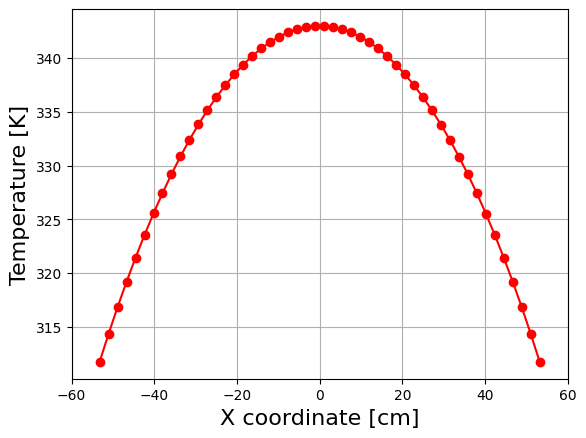
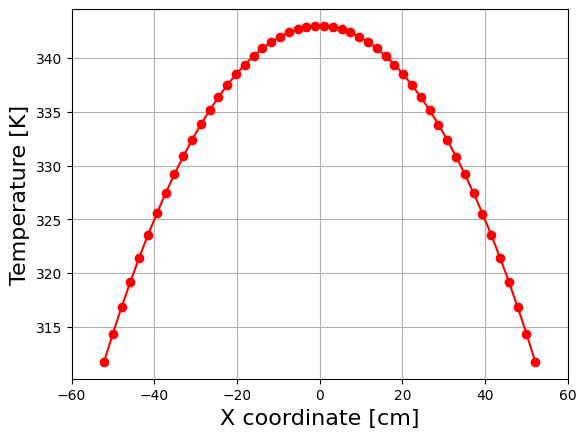
cleaner script, fixed x mesh issue. corresponding results

diff --git a/simulations/visualization/no_ss_no_mesh_template_flux_relaxation_on/viz.py b/simulations/visualization/no_ss_no_mesh_template_flux_relaxation_on/viz.py
@@ -1,0 +1,167 @@
+# a tidier visualization script that takes Cardinal outputs
+# and plots C/E and error norms for the temperature and flux
+
+import openmc
+import numpy as np
+import matplotlib.pyplot as plt
+from matplotlib import ticker as mtick
+import pandas as pd
+
+# list mesh element sizes that will be used to iterate through all cases
+# n_elems = [50,100,250,500,1000]
+n_elems = [50,100,250,500,1000]
+log_N = np.log(n_elems)
+L = 106.47 # equilibrium length from paper
+P = 1.0e22 # eV/s
+T0 = 293 # K
+phi0 = 2.5e14 # n/cm^2-s
+q = 1e8 # ev/s
+k0= 1.25e19 # eV/(s-cm-K^2) k(T) = k0 T(x)
+lam = 0.5*(1+np.sqrt(1+(16*q*q*phi0*phi0)/(P*P)))
+Sig_t0 = np.sqrt(P/((lam-1)*k0*L))/(T0)
+
+#### COMPUTED TO EXPECTED TEMP AND FLUX ####
+
+# dictionaries to house data
+# keys are the number of elements and values are pandas data frame
+xx = {} # x-centroids
+temps = {} # temperature [K]
+cardinal_fluxes = {} # flux from Cardinal [n/cm^2-s]
+for n in n_elems:
+    xx[n] = pd.read_csv(f"openmc_{n}_temp.csv").loc[:,"x"]
+    temps[n] = pd.read_csv(f"openmc_{n}_temp.csv").loc[:,"temp"]
+    cardinal_fluxes[n] = pd.read_csv(f"openmc_{n}_flux.csv").loc[:,"flux"]
+
+
+# plot 50 mesh element temperature
+plt.plot(xx[50],temps[50],'-ro')
+plt.xticks([-60,-40,-20,0,20,40,60])
+plt.xlabel("X coordinate [cm]",fontsize=16)
+plt.ylabel("Temperature [K]",fontsize=16)
+# plt.title(f"Temperature for {50} Mesh Elements")
+plt.grid()
+plt.savefig(f"temp_{n}.png",bbox_inches='tight')
+plt.clf()
+
+# dictioinaries for C/E plots
+# key is number of mesh elements
+# analytical quantities
+analytical_phi = {}
+analytical_T = {}
+# C/E using VPP data from Cardinal
+ratios_flux_num_to_analy = {}
+ratios_temp_num_to_analy = {}
+for n in n_elems:
+    analytical_phi[n] = phi0*np.sqrt(1- ((lam - 1)*P*P*np.multiply(xx[n],xx[n]))/(L*L*q*q*phi0*phi0))
+    analytical_T[n] = Sig_t0*T0*np.sqrt( (q*q*L*L*phi0*phi0)/(P*P) - (lam-1)*np.multiply(xx[n],xx[n]))
+    ratios_temp_num_to_analy[n] = []
+    ratios_flux_num_to_analy[n] = [] 
+    for i in range(n):
+        ratios_flux_num_to_analy[n].append(cardinal_fluxes[n][i]/analytical_phi[n][i]-1)
+        ratios_temp_num_to_analy[n].append(temps[n][i]/analytical_T[n][i]-1)
+
+# #plot individual C/E
+# for n in n_elems:
+#     plt.plot(xx[n],ratios_flux_num_to_analy[n],'-go',label=f"{n} x-elem")
+#     plt.xticks([-60,-40,-20,0,20,40,60])
+#     plt.yticks(np.linspace(np.min(ratios_flux_num_to_analy[n]),np.max(ratios_flux_num_to_analy[n]),5))
+#     plt.xlabel("X Coordinate [cm]")
+#     plt.ylabel(r"Flux C/E - 1")
+#     plt.title(f"Ratio Numerical to Analytical Flux {n} Mesh Elements")
+#     plt.legend()
+#     plt.grid()
+#     plt.savefig(f"num_to_analytical_flux_{n}.png",bbox_inches='tight')
+#     plt.clf()
+
+# plot all temp C/E on one plot
+for n in n_elems:
+    plt.plot(xx[n],ratios_temp_num_to_analy[n],label=f"{n} x-elem")
+plt.xticks([-60,-40,-20,0,20,40,60])
+dict_min = min(i for v in ratios_temp_num_to_analy.values() for i in v)
+dict_max = max(i for v in ratios_temp_num_to_analy.values() for i in v)
+plt.yticks(np.linspace(dict_min,dict_max,8))
+plt.gca().yaxis.tick_right()
+plt.gca().yaxis.set_major_formatter(mtick.FormatStrFormatter('%.1e'))
+plt.xlabel("X Coordinate [cm]",fontsize=16)
+plt.ylabel(r"Temperature C/E - 1",fontsize=16)
+plt.yticks()
+# plt.title(f"Ratio Numerical to Analytical Temp All Meshes. 200 Picard Iterations")
+plt.legend(ncol=2)
+plt.grid()
+plt.savefig("temp_num_to_analy_ratios.png",bbox_inches='tight')
+plt.clf()
+
+# plot all flux C/E on one plot
+for n in n_elems:
+    plt.plot(xx[n],ratios_flux_num_to_analy[n],label=f"{n} x-elem")
+plt.xticks([-60,-40,-20,0,20,40,60])
+dict_min = min(i for v in ratios_flux_num_to_analy.values() for i in v)
+dict_max = max(i for v in ratios_flux_num_to_analy.values() for i in v)
+plt.yticks(np.linspace(dict_min,dict_max,8))
+plt.gca().yaxis.tick_right()
+plt.gca().yaxis.set_major_formatter(mtick.FormatStrFormatter('%.1e'))
+plt.xlabel("X Coordinate [cm]",fontsize=16)
+plt.ylabel(r"Flux C/E - 1",fontsize=16)
+# plt.title("Ratio Numerical to Analytical Flux All Meshes. 200 Picard Iterations")
+plt.legend(ncol=2)
+plt.grid()
+plt.savefig("flux_num_to_analy_ratios.png",bbox_inches='tight')
+plt.clf()
+
+
+#### ERROR NORMS ####
+
+log_temp_error_norms = [] # list to house the error for each mesh size
+for n in n_elems:
+    filename = f"openmc_{n}_out.csv"
+    df_norms = pd.read_csv(filename)
+    last_val  = df_norms.iloc[len(df_norms)-1,-1]
+    log_temp_error_norms.append(np.log(last_val))
+
+# plot the error for each threshold against the number of mesh elements
+plt.plot(log_N,log_temp_error_norms,'-ro',label=r'$\epsilon_{T}=\frac{||T_{a} - T_{x} ||_{2}}{|| T_{a} ||_{2}}$')
+plt.yticks(np.linspace(-6,-10,6))
+# plt.ticklabel_format(axis='y', style='sci', scilimits=(0,0))
+plt.xlabel(r"Log of number of X elements $\log(N)$",fontsize=16)
+plt.ylabel(r"Log of Error Norm $log(\epsilon_{T})$",fontsize=16)
+# plt.title("Temperature Error Norm vs Mesh Size \n 200 Picard Iterations",y=1)
+plt.legend(bbox_to_anchor=[0.985,0.985],fontsize=14)
+plt.grid()
+plt.savefig("temp_error_norms.png",bbox_inches='tight')
+plt.clf()
+
+# linear polynomial fit to get slope of line of best fit temp
+pt = np.polyfit(log_N,log_temp_error_norms,1)
+print("polyfit:" , pt)
+
+# compute flux error norm
+flux_deviations = {}
+flux_dev_norms = {}
+analytical_norms = {}
+flux_error_norms = {}
+# flux error ratio
+for n in n_elems:
+    flux_deviations[n] = []
+    # compute mean, stdev, and analytical - numerical
+    for i in range(n):
+        flux_deviations[n].append(analytical_phi[n][i]-cardinal_fluxes[n][i])
+    flux_dev_norms[n] = np.linalg.norm(flux_deviations[n],ord=2)
+    analytical_norms[n] = np.linalg.norm(analytical_phi[n],ord=2)
+    # ratio is error norm
+    flux_error_norms[n] = flux_dev_norms[n]/analytical_norms[n]
+
+log_flux_error_norms = [np.log(flux_error_norms[n]) for n in n_elems]
+print(log_flux_error_norms)
+# linear polynomial fit to get slope of line of best fit
+pf = np.polyfit(log_N,log_flux_error_norms,1)
+print("polyfit:" , pf)
+
+plt.plot(log_N,log_flux_error_norms,'-o',label=r'$\epsilon_{\phi}=\frac{||\phi_{a} - \phi_{x} ||_{2}}{|| \phi_{a} ||_{2}}$')
+plt.xlabel(r"Log of number of X elements $\log(N)$",fontsize=16)
+plt.ylabel(r"Log of Error Norm $log(\epsilon_{\phi})$",fontsize=16)
+# plt.title("Flux Error Norm vs Mesh Size \n 200 Picard Iterations with Relaxation")
+plt.yticks(np.linspace(-6,-10,6))
+plt.grid()
+plt.legend(bbox_to_anchor=[0.985,0.985],fontsize=14)
+plt.savefig("flux_error_norms.png",bbox_inches='tight')
+plt.clf()
